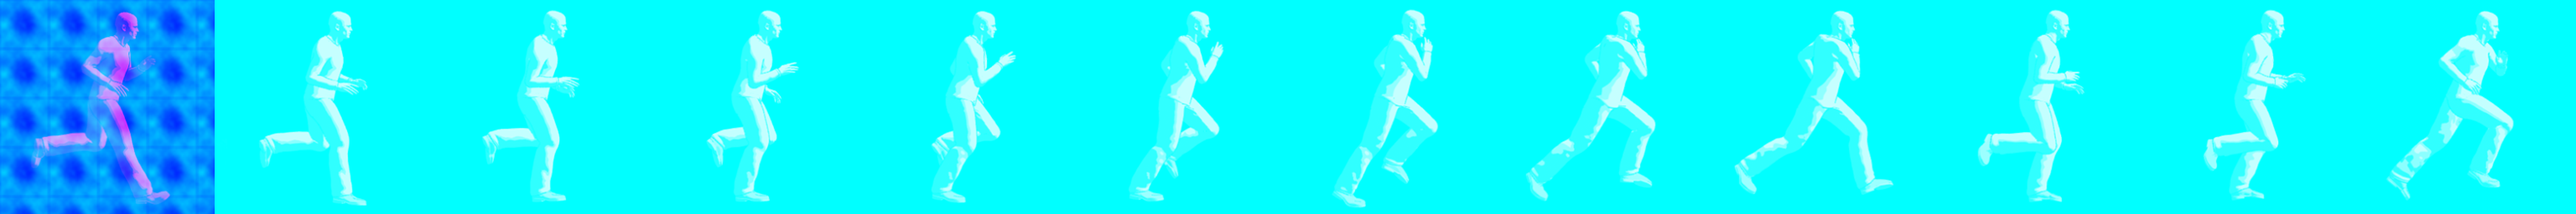
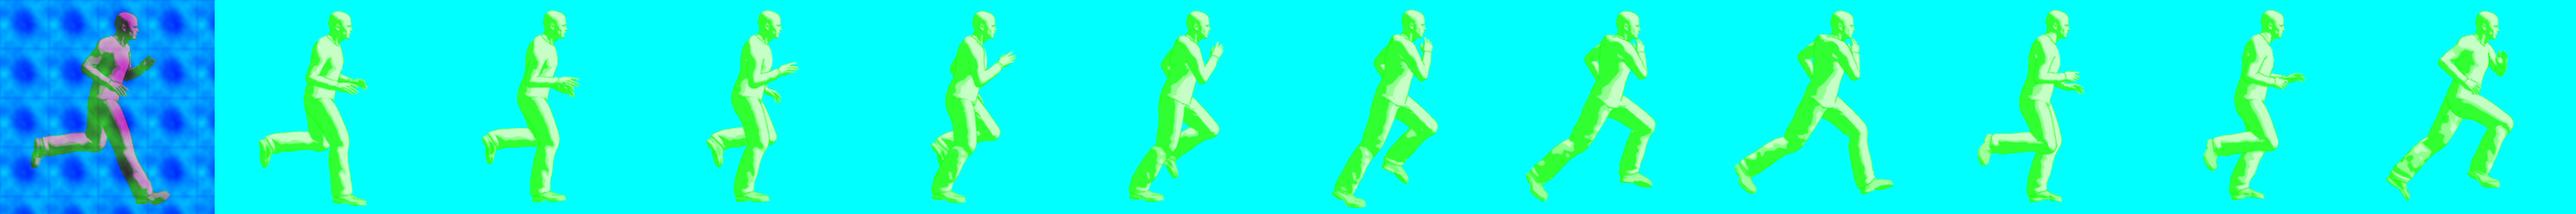
update

diff --git a/app/11.js b/app/11.js
@@ -60,13 +60,13 @@ var vertexShader = `
 
     vec2 runUVs = vec2(uv.x * step + (time * step ) , uv.y);
     
-    float run = texture2D( texture, runUVs ).r;
-    float cloude = texture2D( texture, vec2(uv.x * step, uv.y + time / 2.) ).g;
-    float pos = mix(run, cloude, run);
+    vec4 run = texture2D( texture, runUVs );
+    vec4 cloude = texture2D( texture, vec2(uv.x * step, uv.y + time / 2.) );
+    float pos = mix(run.r, cloude.r, run.r);
 
     gl_Position = projectionMatrix * modelViewMatrix * vec4( vec3(position.x , position.y, position.z + (pos * 25. )  ), 1.0 );
-    
-    gl_PointSize = 5.0 * mix(run, cloude, run);
+
+    gl_PointSize = pos;
   }
 `;
 
@@ -75,13 +75,18 @@ var fragmentShader = `
   precision highp float;
 
   uniform sampler2D mask;
+  uniform sampler2D texture;
   varying vec2 vUv;
   uniform float time;
-  void main() { 
-  
 
+  void main() { 
+    float step = 1. / 12.;
+    vec2 runUVs = vec2(vUv.x * step + (time * step ) , vUv.y);
+    vec4 run = texture2D( texture, runUVs );
     vec3 color = vec3(1.0, 0.2, 0.2);
-    
+    if (run.r < 0.2){
+      discard; 
+    }    
     gl_FragColor = vec4(color, texture2D( mask, gl_PointCoord ).a);   
 
   }
